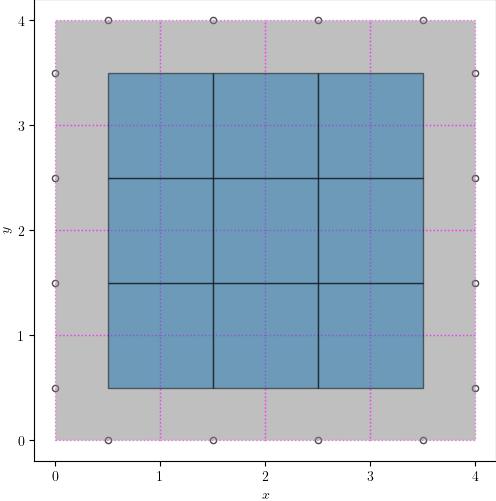
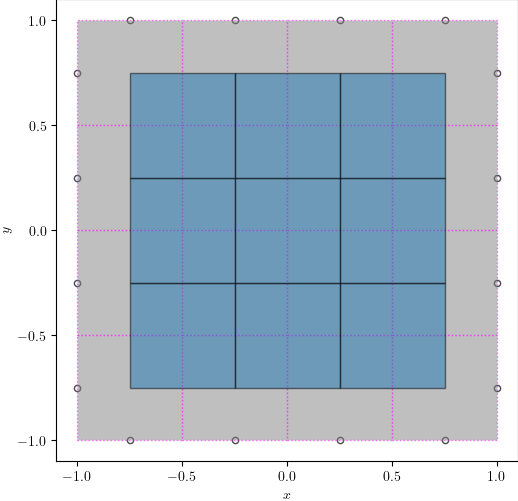
finish hash table template_1111

diff --git a/geo/tests/test_dual_quad.py b/geo/tests/test_dual_quad.py
@@ -606,31 +606,56 @@ def test_L1():
     assert template.name == "1111"
 
     assert template.vertices == (
+        # (0.0, 0.0),
+        # (0.0, 1.0),
+        # (0.0, 2.0),
+        # (0.0, 3.0),
+        # (0.0, 4.0),
+        # (1.0, 0.0),
+        # (1.0, 1.0),
+        # (1.0, 2.0),
+        # (1.0, 3.0),
+        # (1.0, 4.0),
+        # (2.0, 0.0),
+        # (2.0, 1.0),
+        # (2.0, 2.0),
+        # (2.0, 3.0),
+        # (2.0, 4.0),
+        # (3.0, 0.0),
+        # (3.0, 1.0),
+        # (3.0, 2.0),
+        # (3.0, 3.0),
+        # (3.0, 4.0),
+        # (4.0, 0.0),
+        # (4.0, 1.0),
+        # (4.0, 2.0),
+        # (4.0, 3.0),
+        # (4.0, 4.0),
+        (-1.0, -1.0),
+        (-1.0, -0.5),
+        (-1.0, 0.0),
+        (-1.0, 0.5),
+        (-1.0, 1.0),
+        (-0.5, -1.0),
+        (-0.5, -0.5),
+        (-0.5, 0.0),
+        (-0.5, 0.5),
+        (-0.5, 1.0),
+        (0.0, -1.0),
+        (0.0, -0.5),
         (0.0, 0.0),
+        (0.0, 0.5),
         (0.0, 1.0),
-        (0.0, 2.0),
-        (0.0, 3.0),
-        (0.0, 4.0),
+        (0.5, -1.0),
+        (0.5, -0.5),
+        (0.5, 0.0),
+        (0.5, 0.5),
+        (0.5, 1.0),
+        (1.0, -1.0),
+        (1.0, -0.5),
         (1.0, 0.0),
+        (1.0, 0.5),
         (1.0, 1.0),
-        (1.0, 2.0),
-        (1.0, 3.0),
-        (1.0, 4.0),
-        (2.0, 0.0),
-        (2.0, 1.0),
-        (2.0, 2.0),
-        (2.0, 3.0),
-        (2.0, 4.0),
-        (3.0, 0.0),
-        (3.0, 1.0),
-        (3.0, 2.0),
-        (3.0, 3.0),
-        (3.0, 4.0),
-        (4.0, 0.0),
-        (4.0, 1.0),
-        (4.0, 2.0),
-        (4.0, 3.0),
-        (4.0, 4.0),
     )
 
     assert template.vertices_revalence is None
@@ -655,22 +680,38 @@ def test_L1():
     )
 
     assert template.vertices_dual == (
-        (0.5, 0.5),
-        (0.5, 1.5),
-        (0.5, 2.5),
-        (0.5, 3.5),
-        (1.5, 0.5),
-        (1.5, 1.5),
-        (1.5, 2.5),
-        (1.5, 3.5),
-        (2.5, 0.5),
-        (2.5, 1.5),
-        (2.5, 2.5),
-        (2.5, 3.5),
-        (3.5, 0.5),
-        (3.5, 1.5),
-        (3.5, 2.5),
-        (3.5, 3.5),
+        # (0.5, 0.5),
+        # (0.5, 1.5),
+        # (0.5, 2.5),
+        # (0.5, 3.5),
+        # (1.5, 0.5),
+        # (1.5, 1.5),
+        # (1.5, 2.5),
+        # (1.5, 3.5),
+        # (2.5, 0.5),
+        # (2.5, 1.5),
+        # (2.5, 2.5),
+        # (2.5, 3.5),
+        # (3.5, 0.5),
+        # (3.5, 1.5),
+        # (3.5, 2.5),
+        # (3.5, 3.5),
+        (-0.75, -0.75),
+        (-0.75, -0.25),
+        (-0.75, 0.25),
+        (-0.75, 0.75),
+        (-0.25, -0.75),
+        (-0.25, -0.25),
+        (-0.25, 0.25),
+        (-0.25, 0.75),
+        (0.25, -0.75),
+        (0.25, -0.25),
+        (0.25, 0.25),
+        (0.25, 0.75),
+        (0.75, -0.75),
+        (0.75, -0.25),
+        (0.75, 0.25),
+        (0.75, 0.75),
     )
 
     assert template.faces_dual == (
@@ -686,20 +727,36 @@ def test_L1():
     )
 
     assert template.ports == (
-        (0.5, 0.0),
-        (1.5, 0.0),
-        (2.5, 0.0),
-        (3.5, 0.0),
-        (4.0, 0.5),
-        (4.0, 1.5),
-        (4.0, 2.5),
-        (4.0, 3.5),
-        (3.5, 4.0),
-        (2.5, 4.0),
-        (1.5, 4.0),
-        (0.5, 4.0),
-        (0.0, 3.5),
-        (0.0, 2.5),
-        (0.0, 1.5),
-        (0.0, 0.5),
+        # (0.5, 0.0),
+        # (1.5, 0.0),
+        # (2.5, 0.0),
+        # (3.5, 0.0),
+        # (4.0, 0.5),
+        # (4.0, 1.5),
+        # (4.0, 2.5),
+        # (4.0, 3.5),
+        # (3.5, 4.0),
+        # (2.5, 4.0),
+        # (1.5, 4.0),
+        # (0.5, 4.0),
+        # (0.0, 3.5),
+        # (0.0, 2.5),
+        # (0.0, 1.5),
+        # (0.0, 0.5),
+        (-0.75, -1.0),
+        (-0.25, -1.0),
+        (0.25, -1.0),
+        (0.75, -1.0),
+        (1.0, -0.75),
+        (1.0, -0.25),
+        (1.0, 0.25),
+        (1.0, 0.75),
+        (0.75, 1.0),
+        (0.25, 1.0),
+        (-0.25, 1.0),
+        (-0.75, 1.0),
+        (-1.0, 0.75),
+        (-1.0, 0.25),
+        (-1.0, -0.25),
+        (-1.0, -0.75),
     )

diff --git a/geo/doc/plot_dual_quad.py b/geo/doc/plot_dual_quad.py
@@ -138,7 +138,7 @@ def plot_template(template, *, dual_shown=False, plot_shown=False, serialize=Fal
 
 def main():
 
-    dual = True
+    dual = False
     show = False
     save = True
 
@@ -148,7 +148,7 @@ def main():
     # plot_template(dq.Template_0011(), dual_shown=dual, plot_shown=show, serialize=save)
     # plot_template(dq.Template_0110(), dual_shown=dual, plot_shown=show, serialize=save)
     # plot_template(dq.Template_0111(), dual_shown=dual, plot_shown=show, serialize=save)
-    # plot_template(dq.Template_1111(), dual_shown=dual, plot_shown=show, serialize=save)
+    plot_template(dq.Template_1111(), dual_shown=dual, plot_shown=show, serialize=save)
 
     # The remaining (non-unique) transitions
     #
@@ -166,9 +166,9 @@ def main():
     # plot_template(dq.Template_1001(), dual_shown=dual, plot_shown=show, serialize=save)
     #
     # based on Template_0111
-    plot_template(dq.Template_1011(), dual_shown=dual, plot_shown=show, serialize=save)
-    plot_template(dq.Template_1101(), dual_shown=dual, plot_shown=show, serialize=save)
-    plot_template(dq.Template_1110(), dual_shown=dual, plot_shown=show, serialize=save)
+    # plot_template(dq.Template_1011(), dual_shown=dual, plot_shown=show, serialize=save)
+    # plot_template(dq.Template_1101(), dual_shown=dual, plot_shown=show, serialize=save)
+    # plot_template(dq.Template_1110(), dual_shown=dual, plot_shown=show, serialize=save)
 
 
 if __name__ == "__main__":

diff --git a/geo/doc/dual_quad_transitions.md b/geo/doc/dual_quad_transitions.md
@@ -33,5 +33,5 @@ Created with [dual_quad.py](../src/ptg/dual_quad.py) and [plot_dual_quad.py](plo
 
 | `1000` | `1001` | `1010` | `1011` | `1100` | `1101` | `1110` | `1111` | 
 |:------:|:------:|:------:|:------:|:------:|:------:|:------:|:------:|
-| ![primal_quad_1000](fig/primal_quad_1000.png) | ![primal_quad_1001](fig/primal_quad_1001.png) | ![primal_quad_1010](fig/primal_quad_1010.png) | ![primal_quad_1011](fig/primal_quad_1011.png) | ![primal_quad_1100](fig/primal_quad_1100.png) | ![primal_quad_1101](fig/primal_quad_1101.png) | ![primal_quad_1110](fig/primal_quad_1110.png) | 8 |
-| ![dual_quad_1000](fig/dual_quad_1000.png) | ![dual_quad_1001](fig/dual_quad_1001.png) | ![dual_quad_1010](fig/dual_quad_1010.png) | ![dual_quad_1011](fig/dual_quad_1011.png) | ![dual_quad_1100](fig/dual_quad_1100.png) | ![dual_quad_1101](fig/dual_quad_1101.png) | ![dual_quad_1110](fig/dual_quad_1110.png) | 8 |
+| ![primal_quad_1000](fig/primal_quad_1000.png) | ![primal_quad_1001](fig/primal_quad_1001.png) | ![primal_quad_1010](fig/primal_quad_1010.png) | ![primal_quad_1011](fig/primal_quad_1011.png) | ![primal_quad_1100](fig/primal_quad_1100.png) | ![primal_quad_1101](fig/primal_quad_1101.png) | ![primal_quad_1110](fig/primal_quad_1110.png) | ![primal_quad_1111](fig/primal_quad_1111.png) |
+| ![dual_quad_1000](fig/dual_quad_1000.png) | ![dual_quad_1001](fig/dual_quad_1001.png) | ![dual_quad_1010](fig/dual_quad_1010.png) | ![dual_quad_1011](fig/dual_quad_1011.png) | ![dual_quad_1100](fig/dual_quad_1100.png) | ![dual_quad_1101](fig/dual_quad_1101.png) | ![dual_quad_1110](fig/dual_quad_1110.png) | ![dual_quad_1111](fig/dual_quad_1111.png) |
